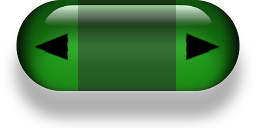
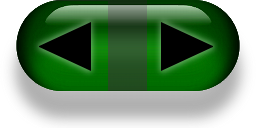
Added basic skinning to spinners
git-svn-id: https://svn.code.sf.net/p/supertuxkart/code@3375 178a84e3-b1eb-0310-8ba1-8eac791a3b58

diff --git a/main/branches/irrlicht/src/gui/skin.cpp b/main/branches/irrlicht/src/gui/skin.cpp
@@ -47,7 +47,8 @@ void Skin::draw2DRectangle (IGUIElement *element, const video::SColor &color, co
 
 void Skin::drawBoxFromStretchableTexture(const core::rect< s32 > &dest, ITexture* source,
                                          const int left_border, const int right_border,
-                                         const int top_border, const int bottom_border)
+                                         const int top_border, const int bottom_border,
+                                         const float border_out_portion)
 {
     // FIXME? - lots of things here will be re-calculated every frame, which is useless since
     // widgets won't move, so they'd only need to be calculated once.
@@ -91,8 +92,9 @@ void Skin::drawBoxFromStretchableTexture(const core::rect< s32 > &dest, ITexture
     core::rect<s32> source_area_bottom_right = core::rect<s32>(dx, dy, texture_w, texture_h);
     
     /*
-     The dest area is split this way. Borders will go a bit beyond the
-     given area so components inside don't go over the borders (by half their size)
+     The dest area is split this way. Borders can go a bit beyond the given area so
+     components inside don't go over the borders
+     (how much it exceeds horizontally is specified in 'border_out_portion'. vertically is always the totality)
      
      a----b--------------------c----+
      |    |                    |    |
@@ -111,22 +113,24 @@ void Skin::drawBoxFromStretchableTexture(const core::rect< s32 > &dest, ITexture
         const int dest_y2 = dest.LowerRightCorner.Y;
         
         const float scale = (float)(dest_y2-dest_y)/texture_h;
-        const int dest_left_border_half = left_border*scale*0.5f;
-        const int dest_right_border_half = right_border*scale*0.5f;
-        const int dest_top_border_half = top_border*scale*0.5f;
-        const int dest_bottom_border_half = bottom_border*scale*0.5f;
+        const int dest_left_border = left_border*scale;
+        const int dest_right_border = right_border*scale;
+        const int dest_top_border = top_border*scale;
+        const int dest_bottom_border = bottom_border*scale;
         
-        const int ax = dest_x - dest_left_border_half;
-        const int ay = dest_y - dest_top_border_half;
+        const float border_in_portion = 1 - border_out_portion;
         
-        const int bx = dest_x + dest_left_border_half;
+        const int ax = dest_x - dest_left_border*border_out_portion;
+        const int ay = dest_y - dest_top_border;
+        
+        const int bx = dest_x + dest_left_border*border_in_portion;
         const int by = ay;
         
-        const int cx = dest_x2 - dest_right_border_half;
+        const int cx = dest_x2 - dest_right_border*border_in_portion;
         const int cy = ay;
         
         const int dx = ax;
-        const int dy = dest_y + dest_top_border_half;
+        const int dy = dest_y;
         
         const int ex = bx;
         const int ey = dy;
@@ -134,11 +138,11 @@ void Skin::drawBoxFromStretchableTexture(const core::rect< s32 > &dest, ITexture
         const int fx = cx;
         const int fy = dy;
         
-        const int gx = dest_x2 + dest_right_border_half;
+        const int gx = dest_x2 + dest_right_border*border_out_portion;
         const int gy = dy;
         
         const int hx = ax;
-        const int hy = dest_y2 - dest_bottom_border_half;
+        const int hy = dest_y2;
         
         const int ix = bx;
         const int iy = hy;
@@ -150,7 +154,7 @@ void Skin::drawBoxFromStretchableTexture(const core::rect< s32 > &dest, ITexture
         const int ky = hy;
         
         const int lx = bx;
-        const int ly = dest_y2 + dest_bottom_border_half; 
+        const int ly = dest_y2 + dest_bottom_border; 
         
         const int mx = cx;
         const int my = ly;
@@ -268,20 +272,33 @@ void Skin::drawRibbonChild(const core::rect< s32 > &rect, const Widget* widget, 
 
 void Skin::drawSpinnerBody(const core::rect< s32 > &rect, const Widget* widget, const bool pressed, const bool focused)
 {
+    // FIXME - move these numbers to a config file
+    const int left_border = 110;
+    const int right_border = 110;
+    const int border_above = 0;
+    const int border_below = 36;
+    
+    drawBoxFromStretchableTexture(rect, (focused || pressed ? m_tex_fspinner : m_tex_spinner),
+                                  left_border, right_border,
+                                  border_above, border_below, 0);
+    /*
     if(focused)
         GUIEngine::getDriver()->draw2DRectangle( SColor(255, 255, 0, 0), rect );
     else
         GUIEngine::getDriver()->draw2DRectangle( SColor(255, 150, 0, 0), rect );
+     */
 }
 
 void Skin::drawSpinnerChild(const core::rect< s32 > &rect, const Widget* widget, const bool pressed, bool focused)
 {
+    /*
     if(pressed)
         GUIEngine::getDriver()->draw2DRectangle( SColor(255, 255, 0, 0), rect );
     else if(focused)
         GUIEngine::getDriver()->draw2DRectangle( SColor(255, 150, 0, 0), rect );
     else
         GUIEngine::getDriver()->draw2DRectangle( SColor(255, 0, 150, 0), rect );
+     */
 }
 
 void Skin::process3DPane(IGUIElement *element, const core::rect< s32 > &rect, const bool pressed)

diff --git a/main/branches/irrlicht/src/gui/widget.cpp b/main/branches/irrlicht/src/gui/widget.cpp
@@ -115,11 +115,6 @@ void Widget::readCoords(Widget* parent)
         int abs_y = -1, percent_y = -1;
         if(convertToCoord(y, &abs_y, &percent_y ))
         {
-            if(abs_y < -1)
-            {
-                std::cout << "abs_y = " << abs_y << ", y=" << (parent_y + (parent_h - abs_y)) << std::endl;
-            }
-            
             if(abs_y > -1) this->y = parent_y + abs_y;
             else if(abs_y < -1) this->y = parent_y + (parent_h + abs_y);
             else if(percent_y > -1) this->y = parent_y + parent_h*percent_y/100;
@@ -617,7 +612,7 @@ void SpinnerWidget::add()
     
     // left arrow
     rect<s32> subsize_left_arrow = rect<s32>(0 ,0, h, h);
-    IGUIButton * left_arrow = GUIEngine::getGUIEnv()->addButton(subsize_left_arrow, btn, ++id_counter_2, L"<<");
+    IGUIButton * left_arrow = GUIEngine::getGUIEnv()->addButton(subsize_left_arrow, btn, ++id_counter_2, L" ");
     m_children[0].m_element = left_arrow;
     m_children[0].m_type = WTYPE_BUTTON;
     left_arrow->setTabStop(false);
@@ -659,7 +654,7 @@ void SpinnerWidget::add()
     
     // right arrow
     rect<s32> subsize_right_arrow = rect<s32>(w-h, 0, w, h);
-    IGUIButton * right_arrow = GUIEngine::getGUIEnv()->addButton(subsize_right_arrow, btn, ++id_counter_2, L">>");
+    IGUIButton * right_arrow = GUIEngine::getGUIEnv()->addButton(subsize_right_arrow, btn, ++id_counter_2, L"  ");
     right_arrow->setTabStop(false);
     m_children[2].m_element = right_arrow;
     m_children[2].m_type = WTYPE_BUTTON;

diff --git a/main/branches/irrlicht/src/gui/skin.hpp b/main/branches/irrlicht/src/gui/skin.hpp
@@ -29,7 +29,8 @@ class Skin : public IGUISkin
     
     void drawBoxFromStretchableTexture(const core::rect< s32 > &dest, ITexture* source,
                                        const int left_border, const int right_border,
-                                       const int top_border, const int bottom_border);
+                                       const int top_border, const int bottom_border,
+                                       const float border_out_portion = 0.5);
     
 public:
     Skin(IGUISkin* fallback_skin);
